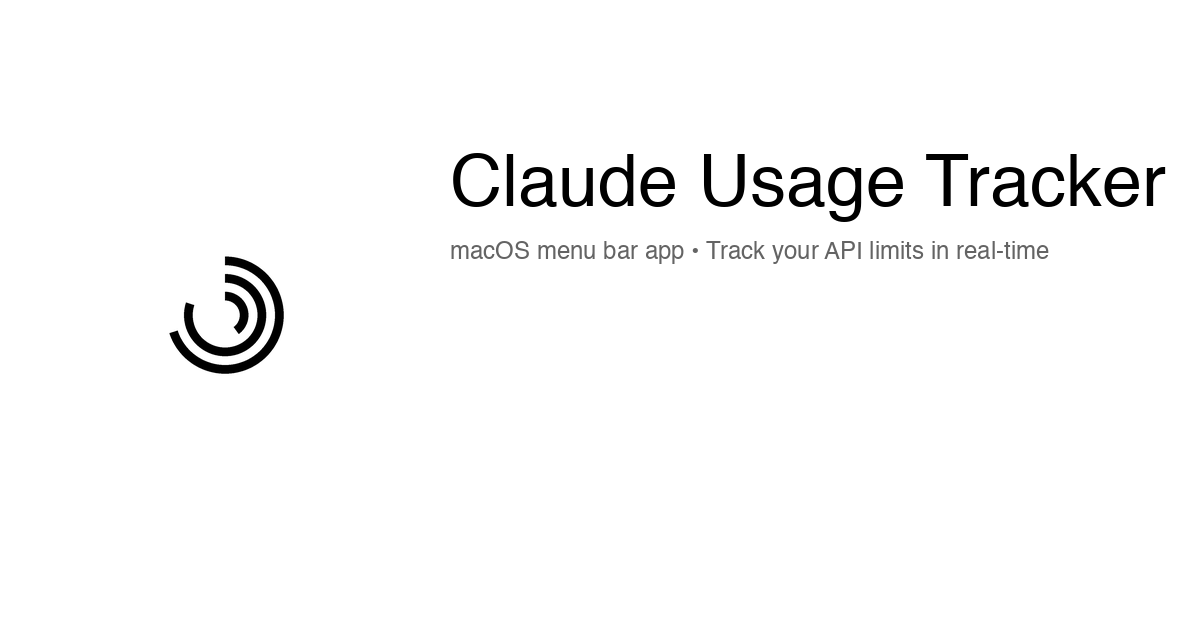
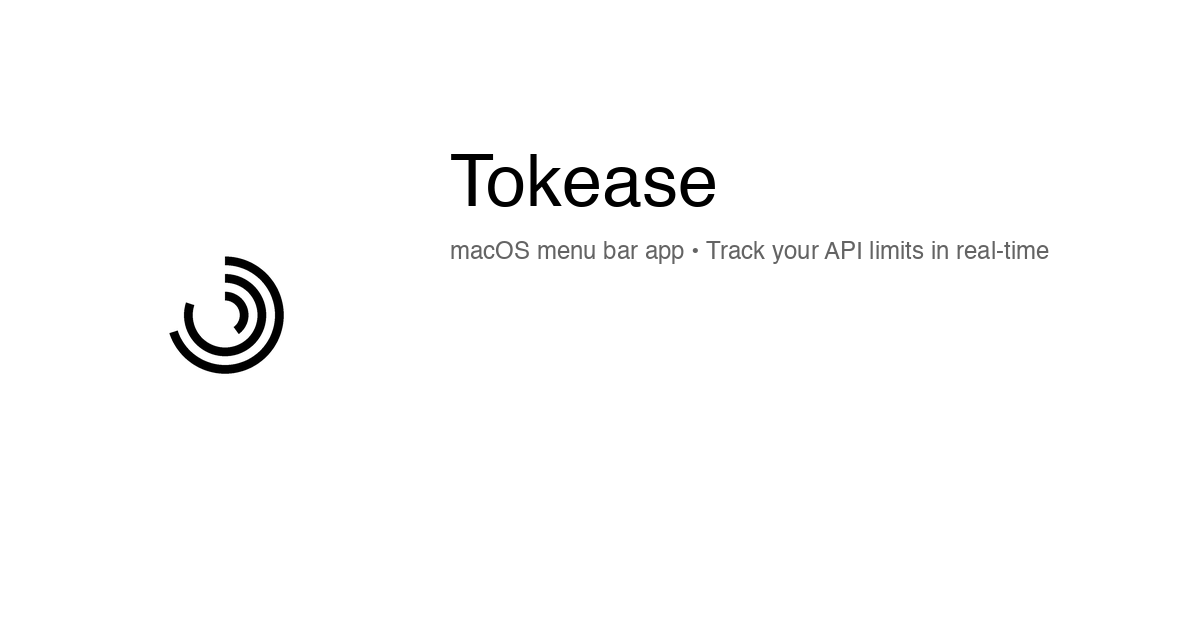
rebrand: Claude Usage Tracker → Tokease
Renomme la marque de l'app (titre affiché, login item, CFBundleIdentifier,
URL repo, icône temp, formule Homebrew) sans toucher aux identifiants
fonctionnels que l'app consomme : service Keychain "Claude Code-credentials",
endpoint /api/oauth/usage, User-Agent claude-code/*.

- tracker.py, setup.py, build.sh, install.sh, tests, sonar : marque → Tokease
- docs (README, CHANGELOG, index.html + meta OG/Twitter) → Tokease
- og-image + social-preview régénérés avec le texte "Tokease"
- bundle id aligné en com.tpatrouillat.tokease (setup.py ↔ install.sh)
- 80 tests verts

Changed region(s): [[0.37, 0.2413, 0.9867, 0.3619]]

diff --git a/docs/index.html b/docs/index.html
@@ -3,10 +3,10 @@
 <head>
     <meta charset="UTF-8">
     <meta name="viewport" content="width=device-width, initial-scale=1.0">
-    <title>Claude Usage Tracker — See your Claude Code limits before you burn them</title>
+    <title>Tokease — See your Claude Code limits before you burn them</title>
     <meta name="description" content="Free, open-source macOS menu bar app with a 3-ring Activity Display showing your Claude Code 5-hour, weekly, and top-model usage in real time. Reads the same OAuth endpoint Claude Code uses. No account, no telemetry.">
     <meta name="theme-color" content="#09090b">
-    <link rel="canonical" href="https://tpatrouillat.github.io/claude-usage-tracker/">
+    <link rel="canonical" href="https://tpatrouillat.github.io/tokease/">
 
     <!-- Favicons -->
     <link rel="icon" type="image/png" sizes="32x32" href="favicon-32.png">
@@ -15,34 +15,34 @@
 
     <!-- Open Graph -->
     <meta property="og:type" content="website">
-    <meta property="og:title" content="Claude Usage Tracker — See your Claude Code limits before you burn them">
+    <meta property="og:title" content="Tokease — See your Claude Code limits before you burn them">
     <meta property="og:description" content="Free, open-source macOS menu bar app for Claude Pro and Max users. 3-ring Activity Display shows 5-hour, weekly, and top-model limits in real time. No account, runs 100% locally.">
-    <meta property="og:image" content="https://tpatrouillat.github.io/claude-usage-tracker/og-image.png">
-    <meta property="og:image:alt" content="Claude Usage Tracker — three concentric Activity Rings on a white background, alongside the product name">
-    <meta property="og:url" content="https://tpatrouillat.github.io/claude-usage-tracker/">
-    <meta property="og:site_name" content="Claude Usage Tracker">
+    <meta property="og:image" content="https://tpatrouillat.github.io/tokease/og-image.png">
+    <meta property="og:image:alt" content="Tokease — three concentric Activity Rings on a white background, alongside the product name">
+    <meta property="og:url" content="https://tpatrouillat.github.io/tokease/">
+    <meta property="og:site_name" content="Tokease">
 
     <!-- Twitter -->
     <meta name="twitter:card" content="summary_large_image">
-    <meta name="twitter:title" content="Claude Usage Tracker — See your Claude Code limits before you burn them">
+    <meta name="twitter:title" content="Tokease — See your Claude Code limits before you burn them">
     <meta name="twitter:description" content="Free, open-source macOS menu bar app with a 3-ring Activity Display for Claude Pro and Max users. Reads the same OAuth endpoint Claude Code uses.">
-    <meta name="twitter:image" content="https://tpatrouillat.github.io/claude-usage-tracker/og-image.png">
-    <meta name="twitter:image:alt" content="Claude Usage Tracker — three concentric Activity Rings on a white background, alongside the product name">
+    <meta name="twitter:image" content="https://tpatrouillat.github.io/tokease/og-image.png">
+    <meta name="twitter:image:alt" content="Tokease — three concentric Activity Rings on a white background, alongside the product name">
 
     <!-- JSON-LD SoftwareApplication -->
     <script type="application/ld+json">
     {
         "@context": "https://schema.org",
         "@type": "SoftwareApplication",
-        "name": "Claude Usage Tracker",
+        "name": "Tokease",
         "operatingSystem": "macOS",
         "applicationCategory": "DeveloperApplication",
         "offers": { "@type": "Offer", "price": "0", "priceCurrency": "USD" },
         "license": "https://opensource.org/licenses/MIT",
-        "downloadUrl": "https://github.com/tpatrouillat/claude-usage-tracker",
-        "url": "https://tpatrouillat.github.io/claude-usage-tracker/",
+        "downloadUrl": "https://github.com/tpatrouillat/tokease",
+        "url": "https://tpatrouillat.github.io/tokease/",
         "description": "A lightweight macOS menu bar app with a 3-ring Activity Display that shows your Claude Code API usage in real time — 5-hour session, weekly cap, and top-model limit.",
-        "image": "https://tpatrouillat.github.io/claude-usage-tracker/logo.png"
+        "image": "https://tpatrouillat.github.io/tokease/logo.png"
     }
     </script>
 
@@ -619,12 +619,12 @@
                 <circle cx="256" cy="256" r="84"  stroke="#a855f7" stroke-width="32" fill="none"/>
                 <circle cx="256" cy="256" r="48"  stroke="#a855f7" stroke-width="32" fill="none"/>
             </svg>
-            Claude Usage Tracker
+            Tokease
         </span>
         <div class="nav-links">
             <a href="#features" class="hide-mobile">Features</a>
             <a href="#how-it-works" class="hide-mobile">How it works</a>
-            <a href="https://github.com/tpatrouillat/claude-usage-tracker" class="btn btn-ghost" aria-label="View on GitHub">
+            <a href="https://github.com/tpatrouillat/tokease" class="btn btn-ghost" aria-label="View on GitHub">
                 <svg width="16" height="16" viewBox="0 0 16 16" fill="currentColor" aria-hidden="true"><path d="M8 0C3.58 0 0 3.58 0 8c0 3.54 2.29 6.53 5.47 7.59.4.07.55-.17.55-.38 0-.19-.01-.82-.01-1.49-2.01.37-2.53-.49-2.69-.94-.09-.23-.48-.94-.82-1.13-.28-.15-.68-.52-.01-.53.63-.01 1.08.58 1.23.82.72 1.21 1.87.87 2.33.66.07-.52.28-.87.51-1.07-1.78-.2-3.64-.89-3.64-3.95 0-.87.31-1.59.82-2.15-.08-.2-.36-1.02.08-2.12 0 0 .67-.21 2.2.82.64-.18 1.32-.27 2-.27.68 0 1.36.09 2 .27 1.53-1.04 2.2-.82 2.2-.82.44 1.1.16 1.92.08 2.12.51.56.82 1.27.82 2.15 0 3.07-1.87 3.75-3.65 3.95.29.25.54.73.54 1.48 0 1.07-.01 1.93-.01 2.2 0 .21.15.46.55.38A8.01 8.01 0 0016 8c0-4.42-3.58-8-8-8z"/></svg>
                 GitHub
             </a>
@@ -649,7 +649,7 @@
                 <svg width="14" height="14" viewBox="0 0 14 14" fill="none" aria-hidden="true"><path d="M3 4h8M3 7h8M3 10h5" stroke="currentColor" stroke-width="1.6" stroke-linecap="round" stroke-linejoin="round"/></svg>
                 Install via Homebrew
             </a>
-            <a href="https://github.com/tpatrouillat/claude-usage-tracker" class="btn btn-ghost">
+            <a href="https://github.com/tpatrouillat/tokease" class="btn btn-ghost">
                 <svg width="14" height="14" viewBox="0 0 14 14" fill="currentColor" aria-hidden="true"><path d="M7 0a7 7 0 00-2.21 13.64c.35.06.48-.15.48-.34v-1.18c-1.96.43-2.37-.94-2.37-.94-.32-.81-.78-1.03-.78-1.03-.64-.43.05-.43.05-.43.71.05 1.08.73 1.08.73.62 1.07 1.64.76 2.04.58.06-.45.24-.76.44-.94-1.57-.18-3.22-.78-3.22-3.5 0-.77.28-1.4.73-1.9-.07-.18-.32-.91.07-1.89 0 0 .59-.19 1.94.72A6.7 6.7 0 017 3.13c.6 0 1.2.08 1.76.24 1.34-.91 1.93-.72 1.93-.72.39.98.14 1.71.07 1.89.45.49.73 1.13.73 1.9 0 2.72-1.66 3.32-3.23 3.5.25.22.48.65.48 1.31v1.95c0 .19.13.41.49.34A7 7 0 007 0z"/></svg>
                 Star on GitHub
             </a>
@@ -657,7 +657,7 @@
 
         <div class="mockup-wrapper">
             <div class="mockup-glow" aria-hidden="true"></div>
-            <figure aria-label="Preview of the Claude Usage Tracker — three concentric Activity Rings showing 70% session, 80% weekly, and 40% Sonnet usage in the macOS menu bar, with a dropdown listing session, weekly, Sonnet, Opus, extra spend, and a Settings submenu">
+            <figure aria-label="Preview of the Tokease — three concentric Activity Rings showing 70% session, 80% weekly, and 40% Sonnet usage in the macOS menu bar, with a dropdown listing session, weekly, Sonnet, Opus, extra spend, and a Settings submenu">
                 <div class="menubar">
                     <span class="menubar-active" aria-label="Activity Rings: session 70%, weekly 80%, Sonnet 40%">
                         <svg width="16" height="16" viewBox="0 0 512 512" fill="none" aria-hidden="true" style="vertical-align:-3px">
@@ -767,7 +767,7 @@
         <div class="step reveal">
             <div class="step-num" aria-hidden="true">2</div>
             <h3>Install the tracker</h3>
-            <p>One line: <code>brew install tpatrouillat/tap/claude-usage-tracker</code>. Or clone the repo and run <code>bash install.sh</code>.</p>
+            <p>One line: <code>brew install tpatrouillat/tap/tokease</code>. Or clone the repo and run <code>bash install.sh</code>.</p>
         </div>
         <div class="step reveal">
             <div class="step-num" aria-hidden="true">3</div>
@@ -791,12 +791,12 @@
             <p>One command. Installs a self-contained Python environment &mdash; no Apple Developer warnings.</p>
             <div class="install-box">
                 <div class="install-lines" id="brew-cmd">
-                    <div><span class="prompt">$ </span><span class="cmd">brew install</span> <span class="arg">tpatrouillat/tap/claude-usage-tracker</span></div>
+                    <div><span class="prompt">$ </span><span class="cmd">brew install</span> <span class="arg">tpatrouillat/tap/tokease</span></div>
                 </div>
                 <button class="copy-btn" id="copyBtnBrew" aria-label="Copy brew install command to clipboard">Copy</button>
             </div>
             <div class="download-meta" style="margin-top:0.85rem; text-align:left;">
-                Then run <code>claude-usage-tracker</code>, or <code>brew services start claude-usage-tracker</code> to auto-launch at login.
+                Then run <code>tokease</code>, or <code>brew services start tokease</code> to auto-launch at login.
             </div>
         </div>
         <div class="install-card reveal">
@@ -804,8 +804,8 @@
             <p>Audit every line. Clone, install, run &mdash; takes about 30 seconds.</p>
             <div class="install-box">
                 <div class="install-lines" id="install-cmd">
-                    <div><span class="prompt">$ </span><span class="cmd">git clone</span> <span class="arg">https://github.com/tpatrouillat/claude-usage-tracker.git</span></div>
-                    <div><span class="prompt">$ </span><span class="cmd">cd</span> <span class="arg">claude-usage-tracker</span></div>
+                    <div><span class="prompt">$ </span><span class="cmd">git clone</span> <span class="arg">https://github.com/tpatrouillat/tokease.git</span></div>
+                    <div><span class="prompt">$ </span><span class="cmd">cd</span> <span class="arg">tokease</span></div>
                     <div><span class="prompt">$ </span><span class="cmd">bash</span> <span class="arg">install.sh</span></div>
                 </div>
                 <button class="copy-btn" id="copyBtn" aria-label="Copy install command to clipboard">Copy</button>
@@ -863,7 +863,7 @@
                 <svg width="18" height="18" viewBox="0 0 18 18" fill="none"><path d="M6 9l2 2 4-4M3 3h12a1.5 1.5 0 011.5 1.5v9A1.5 1.5 0 0115 15H3a1.5 1.5 0 01-1.5-1.5v-9A1.5 1.5 0 013 3z" stroke="currentColor" stroke-width="1.5" stroke-linecap="round" stroke-linejoin="round"/></svg>
             </div>
             <h3>Audit it yourself</h3>
-            <p>The entire app is a single Python file &mdash; <a href="https://github.com/tpatrouillat/claude-usage-tracker/blob/main/tracker.py">read it on GitHub</a>. 74 tests cover every code path.</p>
+            <p>The entire app is a single Python file &mdash; <a href="https://github.com/tpatrouillat/tokease/blob/main/tracker.py">read it on GitHub</a>. 74 tests cover every code path.</p>
         </div>
     </div>
 </section>
@@ -882,7 +882,7 @@
         <form class="notify-form" action="https://formspree.io/f/YOUR_FORM_ID" method="POST">
             <label for="notify-email" class="sr-only" style="position:absolute;left:-9999px;">Email address</label>
             <input id="notify-email" type="email" name="email" placeholder="you@example.com" required autocomplete="email">
-            <input type="hidden" name="_subject" value="Claude Usage Tracker — notify list signup">
+            <input type="hidden" name="_subject" value="Tokease — notify list signup">
             <button type="submit" class="btn btn-primary">Notify me</button>
         </form>
         <p class="notify-note">Used only for endpoint-change alerts. Unsubscribe in one click.</p>
@@ -893,9 +893,9 @@
 <footer>
     <div class="footer-inner">
         <div class="footer-links">
-            <a href="https://github.com/tpatrouillat/claude-usage-tracker">GitHub</a>
-            <a href="https://github.com/tpatrouillat/claude-usage-tracker/releases">Releases</a>
-            <a href="https://github.com/tpatrouillat/claude-usage-tracker/issues">Issues</a>
+            <a href="https://github.com/tpatrouillat/tokease">GitHub</a>
+            <a href="https://github.com/tpatrouillat/tokease/releases">Releases</a>
+            <a href="https://github.com/tpatrouillat/tokease/issues">Issues</a>
             <a href="https://github.com/sponsors/tpatrouillat">Sponsor</a>
         </div>
         <p>MIT License &middot; Built by <a href="https://github.com/tpatrouillat">Thibault Patrouillat</a></p>
@@ -925,8 +925,8 @@
             });
         });
     }
-    wireCopy('copyBtnBrew', 'brew install tpatrouillat/tap/claude-usage-tracker');
-    wireCopy('copyBtn', 'git clone https://github.com/tpatrouillat/claude-usage-tracker.git && cd claude-usage-tracker && bash install.sh');
+    wireCopy('copyBtnBrew', 'brew install tpatrouillat/tap/tokease');
+    wireCopy('copyBtn', 'git clone https://github.com/tpatrouillat/tokease.git && cd tokease && bash install.sh');
 
     // Scroll reveal — pure CSS+IO, respects prefers-reduced-motion
     const reduceMotion = window.matchMedia('(prefers-reduced-motion: reduce)').matches;

diff --git a/tracker.py b/tracker.py
@@ -1,6 +1,6 @@
 #!/usr/bin/env python3
 """
-Claude Usage Tracker — macOS menu bar app.
+Tokease — macOS menu bar app.
 
 Data flow:
   1. Read Claude Code's OAuth token from macOS Keychain
@@ -69,7 +69,7 @@ _ICON_PATH = Path(__file__).resolve().parent / "assets" / "menubar-template.png"
 
 # Dynamic-icon rendering: rewritten on every refresh, lives in tempdir so it
 # never mutates the bundled assets and gets cleaned by macOS periodically.
-_DYNAMIC_ICON_PATH = Path(tempfile.gettempdir()) / "claude-usage-tracker-icon.png"
+_DYNAMIC_ICON_PATH = Path(tempfile.gettempdir()) / "tokease-icon.png"
 
 # Icon geometry — must stay consistent with assets/build-menubar-icon.py so
 # the dynamic and fallback static icons have the same visual footprint.
@@ -149,12 +149,12 @@ _TITLE_SPACER = "  "
 
 # External links (Support submenu). Change DONATE_URL to BMC/Ko-fi/PayPal etc.
 # if GitHub Sponsors isn't your preferred platform.
-STAR_URL = "https://github.com/tpatrouillat/claude-usage-tracker"
+STAR_URL = "https://github.com/tpatrouillat/tokease"
 DONATE_URL = "https://github.com/sponsors/tpatrouillat"
 
 # Login-item registration uses the .app's CFBundleDisplayName — must match
 # Info.plist exactly or `delete login item` won't find it.
-LOGIN_ITEM_NAME = "Claude Usage Tracker"
+LOGIN_ITEM_NAME = "Tokease"
 
 # Default menu item text (extracted to avoid string duplication)
 FIVE_HOUR_DEFAULT = "5-hour: --"
@@ -582,7 +582,7 @@ class App(rumps.App):
         threshold = max(crossed)
         try:
             rumps.notification(
-                title="Claude Usage Tracker",
+                title="Tokease",
                 subtitle=f"Session at {pct}%",
                 message=f"You've passed {threshold}% of your 5-hour limit.",
             )

diff --git a/setup.py b/setup.py
@@ -1,5 +1,5 @@
 """
-py2app build configuration for Claude Usage Tracker.
+py2app build configuration for Tokease.
 
 Build the .app bundle:
     python setup.py py2app
@@ -11,7 +11,7 @@ Build a dev/test version (symlinked, faster):
 from setuptools import setup
 
 APP = ["tracker.py"]
-APP_NAME = "Claude Usage Tracker"
+APP_NAME = "Tokease"
 
 # Bundled into Resources/assets/ so tracker.py can find the menu bar icon
 # both from source (repo root) and from the frozen .app.
@@ -23,7 +23,7 @@ OPTIONS = {
     "plist": {
         "CFBundleName": APP_NAME,
         "CFBundleDisplayName": APP_NAME,
-        "CFBundleIdentifier": "com.tpatrouillat.claude-usage-tracker",
+        "CFBundleIdentifier": "com.tpatrouillat.tokease",
         "CFBundleVersion": "1.0.0",
         "CFBundleShortVersionString": "1.0.0",
         "LSUIElement": True,  # Menu bar app — no Dock icon

diff --git a/assets/build-logos.py b/assets/build-logos.py
@@ -5,8 +5,7 @@ Outputs:
   - favicon-*.png (16, 32px)
   - logo-*.png (256, 512px) — for GitHub repo, social preview
   - logo-square-512.png — for app icon, social cards
-  - logo-social-preview.png (1200x630) — Twitter, OG meta
-  - logo-lockup-horizontal.png — "rings + Claude Usage Tracker" text
+  - logo-social-preview.png (1200x630) — Twitter, OG meta; embeds the "Tokease" text lockup
 
 Run: venv/bin/python assets/build-logos.py
 """
@@ -112,7 +111,7 @@ def main() -> None:
     text_x = 450
     text_y = 150
 
-    draw.text((text_x, text_y), "Claude Usage Tracker", fill=(0, 0, 0), font=font_large)
+    draw.text((text_x, text_y), "Tokease", fill=(0, 0, 0), font=font_large)
     draw.text((text_x, text_y + 90), "macOS menu bar app • Track your API limits in real-time",
               fill=(100, 100, 100), font=font_small)
 

diff --git a/tests/test_tracker.py b/tests/test_tracker.py
@@ -1,6 +1,6 @@
 #!/usr/bin/env python3
 """
-Tests for Claude Usage Tracker.
+Tests for Tokease.
 
 Mocks rumps, subprocess, and urllib so tests run without macOS GUI or network.
 Covers: helpers, time formatting, API fetching (all error paths + success),

diff --git a/README.md b/README.md
@@ -1,10 +1,10 @@
 <div align="center">
-  <img src="assets/logo-256-demo.png" alt="Claude Usage Tracker" width="200" height="200">
-  <h1>Claude Usage Tracker</h1>
+  <img src="assets/logo-256-demo.png" alt="Tokease" width="200" height="200">
+  <h1>Tokease</h1>
   <p>A lightweight macOS menu bar app showing your Claude Code API usage in real time<br/><strong>Know your limits before you hit them</strong></p>
 </div>
 
-![Claude Usage Tracker screenshot](docs/screenshot.png)
+![Tokease screenshot](docs/screenshot.png)
 
 ## Features
 
@@ -27,9 +27,9 @@
 ## Quick Install (Homebrew, recommended)
 
 ```bash
-brew install tpatrouillat/tap/claude-usage-tracker
-claude-usage-tracker          # launch immediately
-brew services start claude-usage-tracker   # auto-start at login
+brew install tpatrouillat/tap/tokease
+tokease          # launch immediately
+brew services start tokease   # auto-start at login
 ```
 
 Bypasses Gatekeeper (no Apple Developer signing required), installs the Python virtualenv automatically, and `brew upgrade` handles updates.
@@ -37,8 +37,8 @@ Bypasses Gatekeeper (no Apple Developer signing required), installs the Python v
 ## Install from Source
 
 ```bash
-git clone https://github.com/tpatrouillat/claude-usage-tracker.git
-cd claude-usage-tracker
+git clone https://github.com/tpatrouillat/tokease.git
+cd tokease
 bash install.sh
 ```
 
@@ -50,8 +50,8 @@ The install script will:
 ## Manual Install (no install script)
 
 ```bash
-git clone https://github.com/tpatrouillat/claude-usage-tracker.git
-cd claude-usage-tracker
+git clone https://github.com/tpatrouillat/tokease.git
+cd tokease
 python3 -m venv venv
 venv/bin/pip install -r requirements.txt
 venv/bin/python tracker.py

diff --git a/docs/CHANGELOG.md b/docs/CHANGELOG.md
@@ -11,7 +11,7 @@
 
 ### Native .app Bundle
 - **New:** `setup.py` — py2app configuration to build a standalone macOS `.app`
-- **New:** `build.sh` — one-command build script producing `Claude Usage Tracker.app`
+- **New:** `build.sh` — one-command build script producing `Tokease.app`
 - **New:** `assets/icon.icns` — app icon (purple gradient with usage meter bars)
 - App runs as menu bar-only (no Dock icon) via `LSUIElement`
 - Distributable as `.dmg` disk image (19MB)
